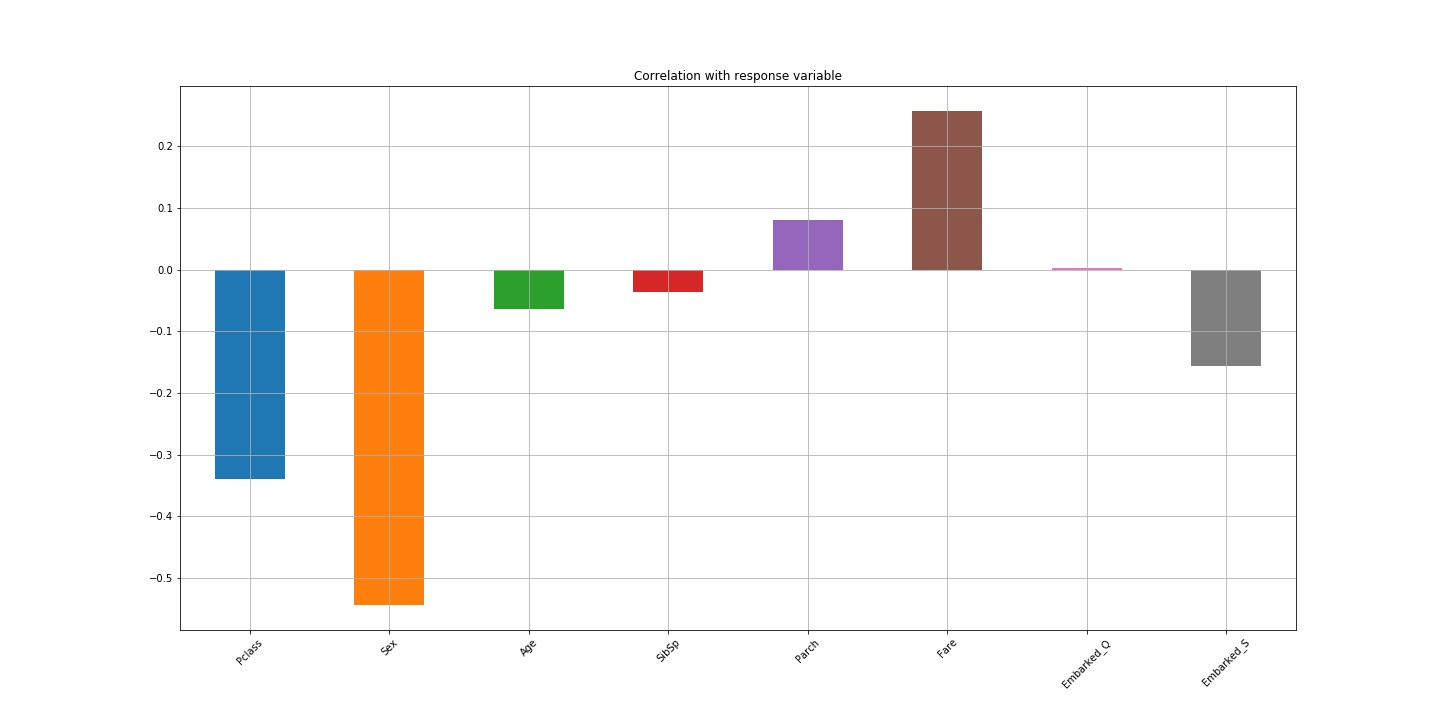
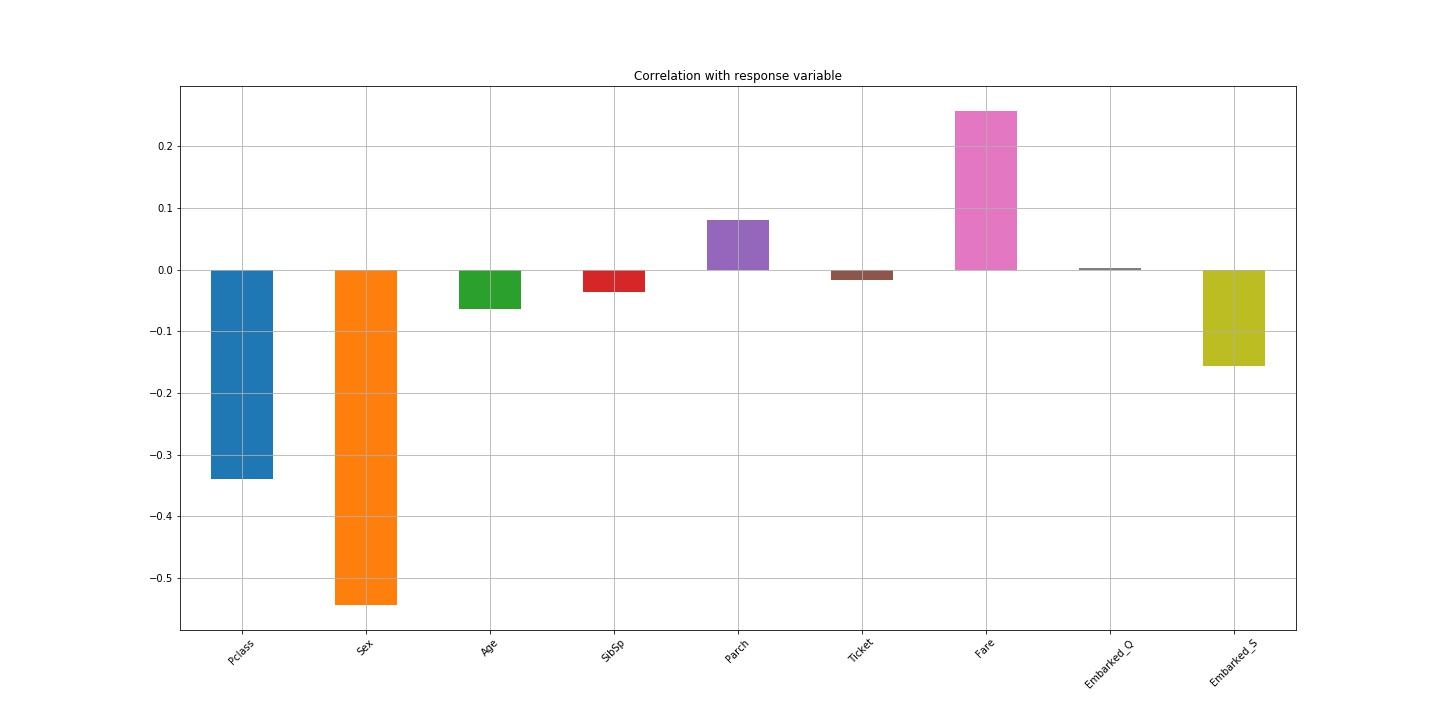
Update round

diff --git a/ktitanic_Henry-Bol.py b/ktitanic_Henry-Bol.py
@@ -2,11 +2,11 @@
 # Kaggle Titanic Competition
 
 
-# 17-05-2019
+# Round 1: 17-05-2019
 # ToDo round 2 improvements:
-# Cabin (dropped)
-# Name (dropped)
-# Ticket (non-numerical only and check on 4 dropped NaN observations)
+# Cabin (temp dropped)
+# Name (temp dropped)
+# Ticket (temp non-numerical only)
 # GridSearch
 
 
@@ -23,12 +23,12 @@ import seaborn as sns
 raw_csv_data_train = pd.read_csv('Data/train.csv', sep = ',')
 raw_csv_data_test = pd.read_csv('Data/test.csv', sep = ',')
 
-# Copy to DataFrame
-df_train = raw_csv_data_train.copy()
-df_test = raw_csv_data_test.copy()
+# Copy to DataFrame ((test and train))
+df_train = raw_csv_data_train.copy() # PassengerId 1 - 891
+df_test_after_modelling = raw_csv_data_test.copy() # PassengerId 892 - 1309
+df = df_train
 
 # Overview of dataset
-df = df_train
 df.head()
 df.info() #
 df.shape # (891, 12)
@@ -40,7 +40,6 @@ features['type'] = df.dtypes.values
 # =============================================================================
 # Part 2 - Dataset cleaning (features, observations)
 # =============================================================================
-df = df_train.copy()
 ## Drop non-relevant features
 df = df.drop(columns = ['PassengerId', 'Name'])
 
@@ -48,16 +47,12 @@ df = df.drop(columns = ['PassengerId', 'Name'])
 df.isnull().values.any() # 
 df.isna().any()
 df.isnull().sum() 
-#Age            177
-#Cabin          687
-#Embarked         2
 
 # Take median of Age
 median = df['Age'].median() # 28.0
 df['Age'].fillna(median, inplace=True)
 # Drop column Cabin
 df = df.drop(columns = ['Cabin'])
-df_test = df_test.drop(columns = ['Cabin']) # also drop column in test set
 # Delete observations with NaN in embarked (2 only)
 #df = df.dropna(subset = ['Embarked']) > needed in remove non-numerical characters in Ticket
 
@@ -67,14 +62,13 @@ from sklearn.preprocessing import LabelEncoder
 df['Sex'] = LabelEncoder().fit_transform(df['Sex'])
 # Embarked: One Hot Encoding (including avoiding dummy variables trap)
 df = pd.get_dummies(df, columns=['Embarked'], prefix=["Embarked"], drop_first=True) 
-# Name: tbd
-# Ticket: remove non-numerical characters
+## Ticket: remove non-numerical characters
 import re
 i = 0
 df_length = len(df)
 for i in range (0, df_length):
     df.loc[i, 'Ticket'] = re.sub('[^0-9]','', df.loc[i, 'Ticket'])
-# > 4 tickets are empty
+# change from object to int
 df['Ticket'] = pd.to_numeric(df['Ticket'], errors='coerce')
 df.isnull().sum() 
 # Ticket 4 -> drop 4 observations with Ticket NaN
@@ -90,7 +84,8 @@ plt.savefig('output/feature_target_distribution.jpg')
 # > balance on Survived 
 
 ## Correlation with Response Variable (linear)
-df2 = df.copy().drop(columns = ['Survived', 'Ticket']) # only on Numerical variables - not Categorical variables
+df2 = df.dropna(subset = ['Survived']) # check subset with Survival only (i.e Training set)
+df2 = df2.copy().drop(columns = ['Survived']) # correlation with feature target
 df2.corrwith(df.Survived).plot.bar(
             figsize=(20,10), # correlation with response variable / barplot
             title = 'Correlation with response variable',
@@ -99,7 +94,6 @@ df2.corrwith(df.Survived).plot.bar(
 plt.savefig('output/data_correlation_response.jpg')
 
 ## Correlation Matrix between features (check independency between independent numerical features)
-df2 = df.copy().drop(columns = ['Survived']) # 
 sns.set(style="white", font_scale=1)
 # Compute the correlation matrix
 corr = df2.corr()
@@ -120,10 +114,14 @@ plt.savefig('output/data_correlation_matrix.jpg')
 # =============================================================================
 # Part 4 - Preparation for modelling
 # =============================================================================
-X_train = df.drop(columns = ['Survived'])
-y_train = df['Survived']
-X_test = df.drop(columns = ['Survived'])
-y_test = df['Survived']
+X = df.drop(columns = ['Survived'])
+y = df['Survived']
+ 
+## Splitting the dataset into the Training set and Test set (this is not the test set for final validation)
+from sklearn.model_selection import train_test_split
+X_train, X_test, y_train, y_test = train_test_split(X, y, test_size = 0.2, random_state = 0, shuffle = True)
+## Splitting the Test dataset into the Train set and Validation set
+#X_train, X_validation, y_train, y_validation = train_test_split(X_train, y_train, test_size = 0.25, random_state = 0, shuffle = True)
 
 ## Balancing the Training Set
 # create lists of y_train = 1 and y_train = 0
@@ -147,18 +145,28 @@ X_train = X_train.loc[new_indices,]
 y_train = y_train[new_indices]
 # check distrubution on y (should be equal now)
 y_train.value_counts()
-#1    342
-#0    342
+#1    276
+#0    276
+
+## Feature Scaling (while keeping the column names and row indices)
+from sklearn.preprocessing import StandardScaler
+sc_X = StandardScaler()
+X_train2 = pd.DataFrame(sc_X.fit_transform(X_train))
+X_test2 = pd.DataFrame(sc_X.transform(X_test))
+X_train2.columns = X_train.columns.values # column names toevoegen
+X_test2.columns = X_test.columns.values 
+X_train2.index = X_train.index.values # juiste row indices toevoegen
+X_test2.index = X_test.index.values
+X_train = X_train2
+X_test = X_test2
 
 ## importing the libraries
 import xgboost as xgb
-
 from sklearn.metrics import confusion_matrix
 from sklearn.metrics import accuracy_score
 from sklearn.metrics import f1_score
 from sklearn.metrics import precision_score
 from sklearn.metrics import recall_score
-from sklearn.metrics import classification_report
 
 
 # =============================================================================
@@ -176,7 +184,7 @@ cm = confusion_matrix(y_test, y_pred)
 # Heatmap
 sns.heatmap(cm,annot=True,fmt="d")
 # Accuracy
-print("Test Data Accuracy: %0.4f" % accuracy_score(y_test, y_pred)) # Test Data Accuracy: 0.7756
+print("Test Data Accuracy: %0.4f" % accuracy_score(y_test, y_pred)) # Test Data Accuracy: 0.7697
 # Write to Model Selection
 acc = accuracy_score(y_test, y_pred)
 prec = precision_score(y_test, y_pred)
@@ -204,7 +212,7 @@ cm = confusion_matrix(y_test, y_pred)
 # Heatmap
 sns.heatmap(cm,annot=True,fmt="d")
 # Accuracy
-print("Test Data Accuracy: %0.4f" % accuracy_score(y_test, y_pred)) # Test Data Accuracy: 0.9154
+print("Test Data Accuracy: %0.4f" % accuracy_score(y_test, y_pred)) # Test Data Accuracy: 0.7978
 # Write to Model Selection
 acc = accuracy_score(y_test, y_pred)
 prec = precision_score(y_test, y_pred)
@@ -230,7 +238,7 @@ cm = confusion_matrix(y_test, y_pred)
 # Heatmap version 1
 sns.heatmap(cm,annot=True,fmt="d")
 # Accuracy
-print("Test Data Accuracy: %0.4f" % accuracy_score(y_test, y_pred)) # Test Data Accuracy: 0.9177
+print("Test Data Accuracy: %0.4f" % accuracy_score(y_test, y_pred)) # Test Data Accuracy: 0.7697
 # Determine features importance
 fig, ax = plt.subplots(figsize=(12,18))
 xgb.plot_importance(classifier, height=0.8, ax=ax)
